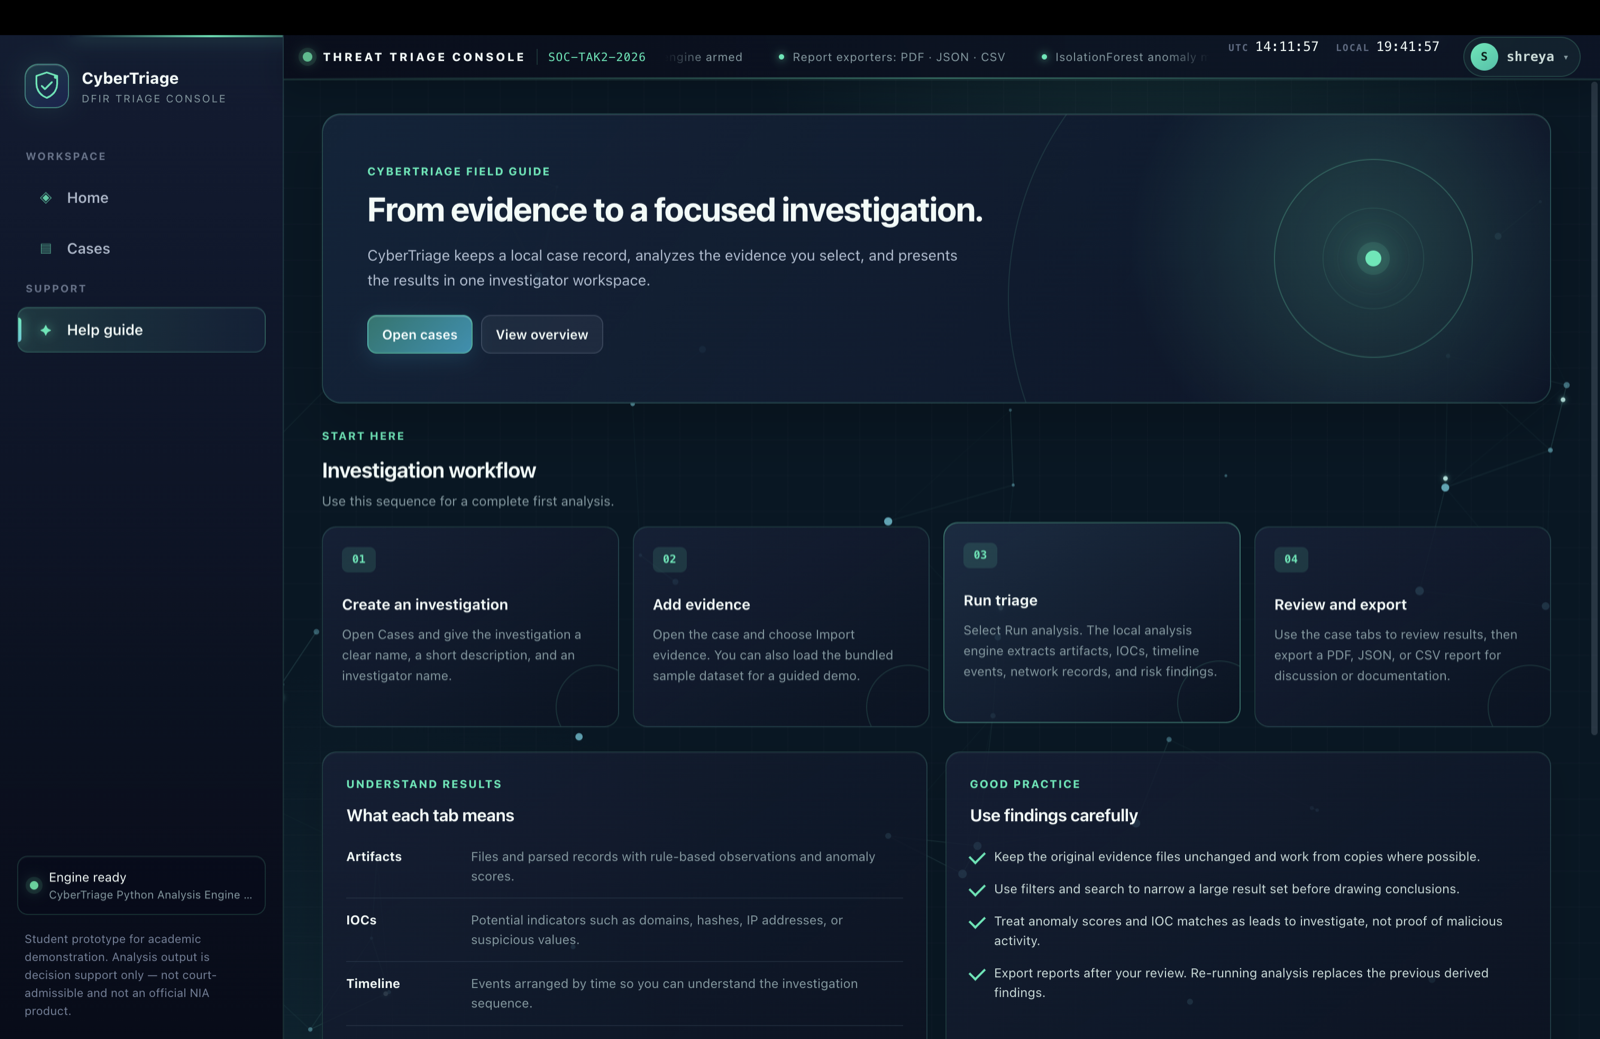
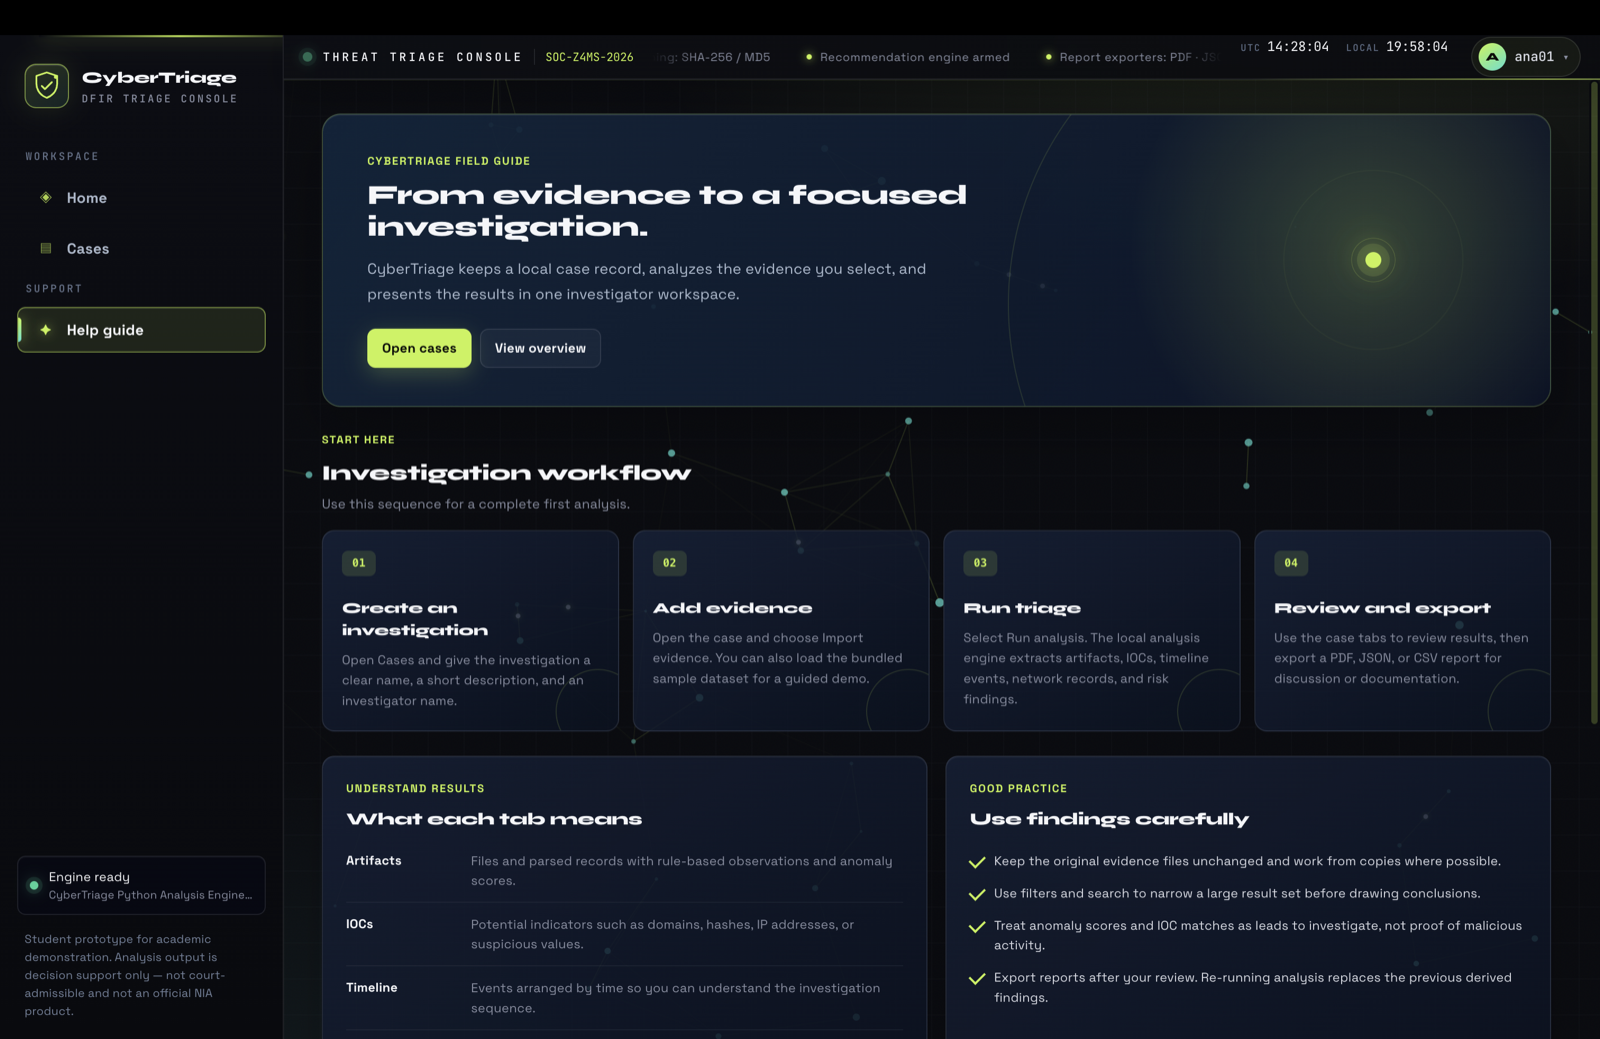
added ui renders to readme

diff --git a/README.md b/README.md
@@ -9,13 +9,13 @@ Sign in → create a case → import evidence (files, **RAW disk images**, or **
 
 
 
-<img src="docs/screenshots/risk.png" width="90%" alt="CyberTriage — risk analysis of a case" />
+<img src="docs/screenshots/launch.png" width="90%" alt="CyberTriage — launch console" />
 
 </div>
 
 > **Student desktop-development project**, inspired by the **NIA Anti-Cyber Terrorism Division**
 > DFIR problem statement. Not an official NIA product; not for court-admissible evidence.
->  Full project guide + live-demo script: **[`Student.md`](Student.md)** ·  Commands: **[`setup.md`](setup.md)**
+> ·  Commands: **[`setup.md`](setup.md)**
 
 ###  [Download the app (CyberTriage DMG — Google Drive)](https://drive.google.com/drive/folders/1ipC_T_R-SgYsBm_sXvhaKLHAbex65ih6)
 
@@ -59,14 +59,14 @@ The NIA brief asks for five capabilities. **All five are implemented:**
 
 | | |
 | :---: | :---: |
-| <img src="docs/screenshots/welcome.png" width="100%"/> | <img src="docs/screenshots/evidence.png" width="100%"/> |
-| **Login / sign-up gate** | **Case — evidence register (hashed on import)** |
-| <img src="docs/screenshots/risk.png" width="100%"/> | <img src="docs/screenshots/export.png" width="100%"/> |
-| **Risk tab — score, "why", recommendations** | **One Export menu → PDF / CSV / JSON** |
-| <img src="docs/screenshots/help.png" width="100%"/> | <img src="docs/screenshots/tour.png" width="100%"/> |
-| **In-app help / field guide** | **First-run guided tour** |
-| <img src="docs/screenshots/account.png" width="100%"/> | <img src="docs/screenshots/reset.png" width="100%"/> |
-| **Account menu (profile, tour, reset, log out)** | **Reset (type-to-confirm)** |
+| <img src="docs/screenshots/welcome.png" width="100%"/> | <img src="docs/screenshots/home.png" width="100%"/> |
+| **Login / sign-up gate** | **Home — combined dashboard across all cases** |
+| <img src="docs/screenshots/case.png" width="100%"/> | <img src="docs/screenshots/risk.png" width="100%"/> |
+| **Case detail — stat tiles, tabs & insights** | **Risk — composite score, "why" & recommendations** |
+| <img src="docs/screenshots/evidence.png" width="100%"/> | <img src="docs/screenshots/help.png" width="100%"/> |
+| **Evidence register (SHA-256/MD5 hashed)** | **In-app help / field guide** |
+| <img src="docs/screenshots/tour.png" width="100%"/> | <img src="docs/screenshots/reset.png" width="100%"/> |
+| **First-run guided tour** | **Reset (type-to-confirm)** |
 
 ---
 
@@ -125,7 +125,7 @@ Three cooperating layers — the core of a desktop-development project:
 (`electron/preload.ts`, `contextBridge` + `contextIsolation`) is the *only* channel between UI and
 engine; **native OS integration** via file/save dialogs and reveal-in-Finder; **state &
 persistence** in SQLite (cases **and user accounts**) with the active session on the client; **local AI/ML inference** (no cloud);
-and **packaging** with PyInstaller + electron-builder into a signed DMG. *(See [`Student.md`](Student.md) for the file-by-file map.)*
+and **packaging** with PyInstaller + electron-builder into a signed DMG. 
 
 **Data flow:** the UI never runs Python directly — every request goes **React → Electron (preload
 → main) → Python → back**, as one line of JSON each way.

diff --git a/docs/screenshots/README.md b/docs/screenshots/README.md
@@ -1,17 +1,18 @@
 # Screenshots
 
-These PNGs are shown in the main [`../../README.md`](../../README.md). Captured from the running
-app and downscaled to 1600px wide to keep the repo light.
+Shown in the main [`../../README.md`](../../README.md). Captured from the running app
+("Noir Lab" UI) and downscaled to 1600px wide to keep the repo light.
 
 | File | Screen |
 | --- | --- |
+| `launch.png` | The launch / boot console (hero) |
 | `welcome.png` | Login / sign-up gate |
-| `evidence.png` | Case — evidence register (files hashed on import) |
-| `risk.png` | Risk tab — composite score, "why", recommendations |
-| `export.png` | The single Export menu (PDF / CSV / JSON) |
+| `home.png` | Home — combined dashboard across all cases |
+| `case.png` | Case detail — stat tiles, tabs & insight card |
+| `risk.png` | Composite risk score, "why" & recommendations |
+| `evidence.png` | Evidence register (SHA-256/MD5 hashed) |
 | `help.png` | In-app help / field guide |
 | `tour.png` | First-run guided tour |
-| `account.png` | Account menu (edit profile, replay tour, reset, log out) |
 | `reset.png` | Reset entire app (type-to-confirm) |
 
 To refresh one, re-capture from the app (`npm run electron:dev`) with the same filename
